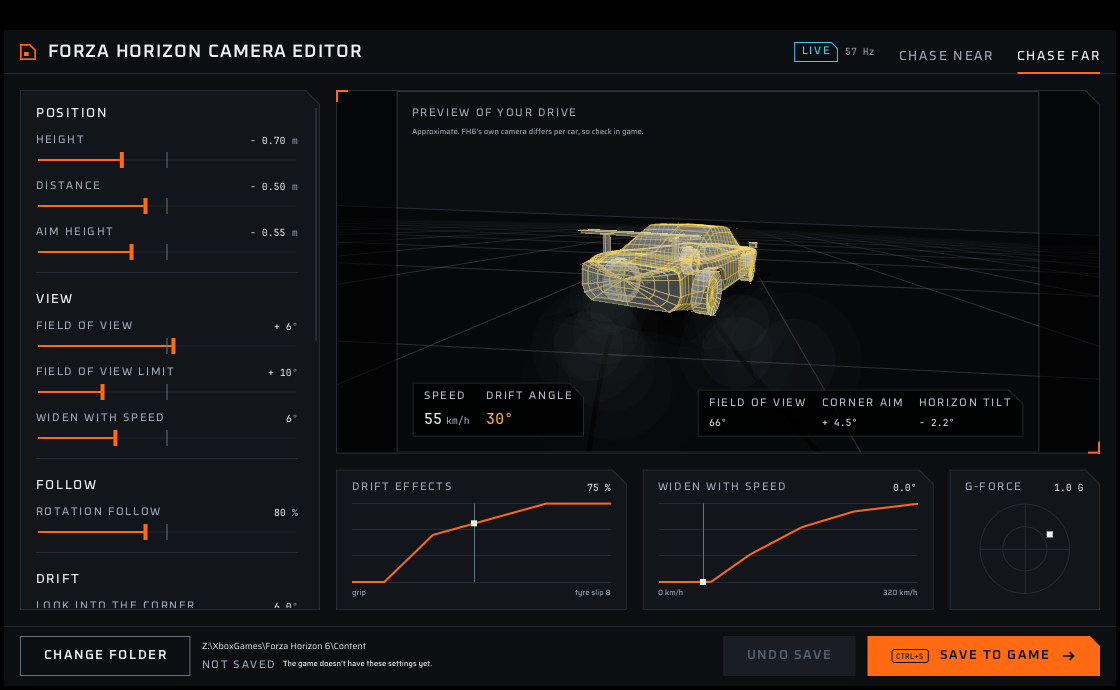
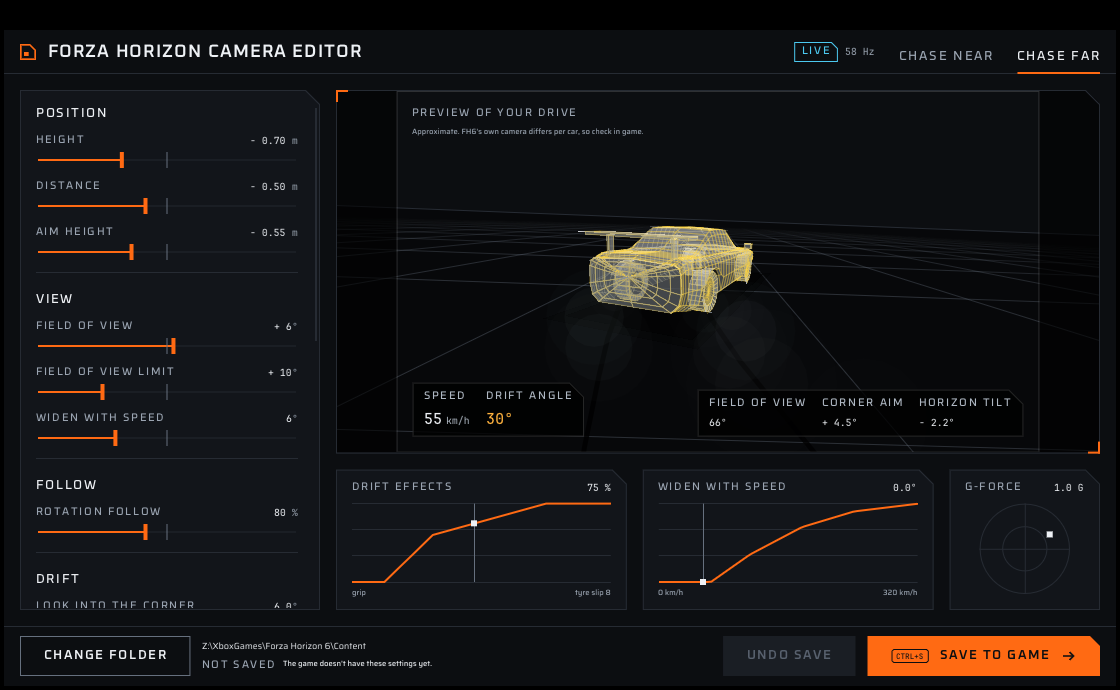
Shape the preview car after a drift S15
Real S15 proportions: 4,445 mm long, 1,695 mm wide (plus small flares),
1,285 mm tall, 2,525 mm wheelbase, lowered a little. Low pointed nose, long
hood, windshield set well back, short roof, sloped rear window onto a short
trunk deck, wedge belt line, wing. Still generated, so no model license or
download is needed.

diff --git a/editor/src/carmesh.cpp b/editor/src/carmesh.cpp
@@ -6,24 +6,28 @@ namespace fh6 {
 
 namespace {
 const double PI = 3.14159265358979323846;
-const double L = 2.25;                          // half length
-const double WHEEL_Z[2] = { -1.36, 1.36 }, WHEEL_R = 0.33, ARCH_R = 0.42;
+// Proportions of a late-90s compact Japanese drift coupe (S15): 4,445 mm long,
+// 1,695 mm wide, 1,285 mm tall, 2,525 mm wheelbase; lowered a little.
+const double L = (4.445 - 0.16) / 2;            // half length of the lofted body; rounded bumpers add 8 cm each end
+const double WHEEL_Z[2] = { -1.25, 1.275 }, WHEEL_R = 0.315, ARCH_R = 0.40;
+const double HALF_W = 0.835, ROOF = 1.255;
 
 double clamp01(double x) { return x < 0 ? 0 : x > 1 ? 1 : x; }
 double smooth(double a, double b, double x) { double t = clamp01((x - a) / (b - a)); return t * t * (3 - 2 * t); }
 
-// Plan view: half width, with rounded ends, a slightly narrower nose and fender flares
+// Plan view: half width, pointed nose, rounded tail corners, small fender flares
 double halfWidth(double z) {
-    double w = 0.92 * (1 - 0.17 * smooth(1.55, L, std::fabs(z))) * (1 - 0.04 * smooth(0.4, L, z));
-    for (double wz : WHEEL_Z) w += 0.035 * std::exp(-std::pow((z - wz) / 0.5, 2));
+    double w = HALF_W * (1 - 0.13 * smooth(1.6, L, -z)) * (1 - 0.16 * std::pow(smooth(1.2, L, z), 1.3));
+    for (double wz : WHEEL_Z) w += 0.022 * std::exp(-std::pow((z - wz) / 0.45, 2));
     return w;
 }
-// Belt (shoulder) line: drops toward the nose, kicks up a little at the rear, drops at the tail
+// Belt (shoulder) line: a wedge rising toward the tail, a long hood sloping to a low nose
 double belt(double z) {
-    return 0.80 - 0.15 * std::pow(smooth(0.9, L, z), 1.4) + 0.035 * smooth(-0.3, -1.9, z) - 0.07 * smooth(-1.95, -L, z);
+    return 0.80 - 0.03 * z - 0.15 * std::pow(smooth(1.0, L, z), 1.3) - 0.06 * smooth(-1.95, -L, z);
 }
+double deck(double z) { return belt(z) + 0.04; }
 // Floor: rises at the overhangs
-double floorY(double z) { return 0.17 + 0.11 * smooth(1.65, L, z) + 0.09 * smooth(-1.7, -L, z); }
+double floorY(double z) { return 0.13 + 0.10 * smooth(1.6, L, z) + 0.08 * smooth(-1.7, -L, z); }
 // Wheel arch: height of the arch edge above the ground at z (0 outside the arches)
 double archY(double z) {
     double y = 0;
@@ -33,14 +37,23 @@ double archY(double z) {
     }
     return y;
 }
-// Cabin height above the deck: raked windshield, slightly crowned roof, fastback
+// Cabin height above the deck: raked windshield from far back on the hood, a
+// short roof, a sloped rear window onto a short trunk deck
 double cabin(double z) {
-    const double wsBase = 0.98, roofFront = 0.12, roofRear = -0.72, rearBase = -1.62, roofH = 0.47;
+    const double wsBase = 0.82, roofFront = 0.02, roofRear = -0.78, rearBase = -1.42;
+    double top;
     if (z >= wsBase || z <= rearBase) return 0;
-    if (z > roofFront) return roofH * (1 - std::pow((z - roofFront) / (wsBase - roofFront), 1.25));
-    if (z < roofRear) return roofH * (1 - std::pow((roofRear - z) / (roofRear - rearBase), 1.15));
-    double m = (z - (roofFront + roofRear) / 2) / ((roofFront - roofRear) / 2);
-    return roofH * (1 - 0.035 * m * m);
+    if (z > roofFront) {
+        double t = (z - roofFront) / (wsBase - roofFront);
+        top = ROOF + (deck(wsBase) - ROOF) * std::pow(t, 1.2);
+    } else if (z < roofRear) {
+        double t = (roofRear - z) / (roofRear - rearBase);
+        top = ROOF - 0.01 + (deck(rearBase) - (ROOF - 0.01)) * std::pow(t, 1.1);
+    } else {
+        double m = (z - (roofFront + roofRear) / 2) / ((roofFront - roofRear) / 2);
+        top = ROOF - 0.012 * m * m;
+    }
+    return std::max(0.0, top - deck(z));
 }
 
 struct Builder {
@@ -59,9 +72,9 @@ struct Builder {
 // One half section from the bottom centre to the top centre (11 points).
 void halfSection(double z, V3* p) {
     double w = halfWidth(z), b = belt(z), fl = floorY(z), h = cabin(z), arch = archY(z);
-    double deck = b + 0.04;
+    double dk = deck(z);
     double low = std::max(fl + 0.10, arch), bot = std::max(fl, arch); // the arch lifts the outer lower edge
-    double wg = w * 0.80, wr = w * 0.63;
+    double wg = w * 0.82, wr = w * 0.66;
     double crown = h > 0.01 ? 0.02 : 0.03;
     p[0] = V3(0, fl, z);
     p[1] = V3(0.80 * w, bot, z);
@@ -70,10 +83,10 @@ void halfSection(double z, V3* p) {
     p[4] = V3(0.985 * w, std::max(b - 0.08, low + 0.04), z);
     p[5] = V3(0.95 * w, b, z);
     p[6] = V3(0.86 * w, b + 0.035, z);
-    p[7] = V3(wg, deck, z);
-    p[8] = V3(wr + (wg - wr) * 0.3, deck + h * 0.78, z);
-    p[9] = V3(wr, deck + h, z);
-    p[10] = V3(0, deck + h + crown, z);
+    p[7] = V3(wg, dk, z);
+    p[8] = V3(wr + (wg - wr) * 0.3, dk + h * 0.78, z);
+    p[9] = V3(wr, dk + h, z);
+    p[10] = V3(0, dk + h + crown, z);
 }
 
 CarMesh build() {
@@ -147,11 +160,11 @@ CarMesh build() {
         }
     // mirrors and a rear wing on two stands
     for (int sx = -1; sx <= 1; sx += 2) {
-        double z = 0.82, w = halfWidth(z);
+        double z = 0.70, w = halfWidth(z);
         B.box(V3(sx * (w + 0.06), belt(z) + 0.12, z), V3(0.07, 0.045, 0.05), 2);
-        B.box(V3(sx * 0.55, belt(-1.95) + 0.19, -1.98), V3(0.015, 0.15, 0.05), 2);
+        B.box(V3(sx * 0.52, belt(-1.92) + 0.17, -1.94), V3(0.015, 0.13, 0.05), 2);
     }
-    B.box(V3(0, belt(-1.95) + 0.36, -2.0), V3(0.84, 0.018, 0.15), 2);
+    B.box(V3(0, belt(-1.92) + 0.32, -1.97), V3(0.80, 0.018, 0.14), 2);
     return B.m;
 }
 } // namespace
